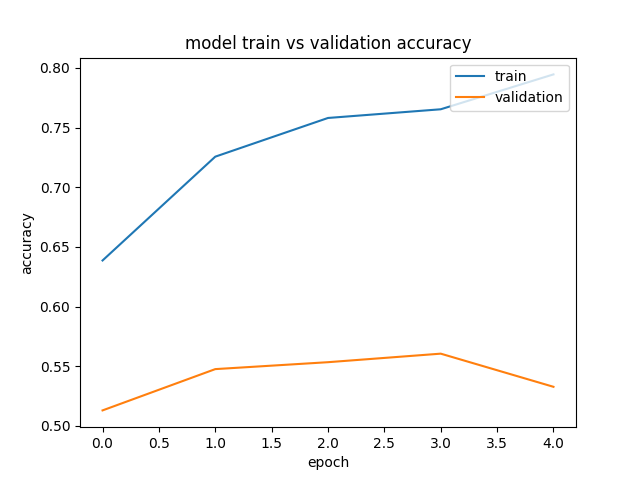
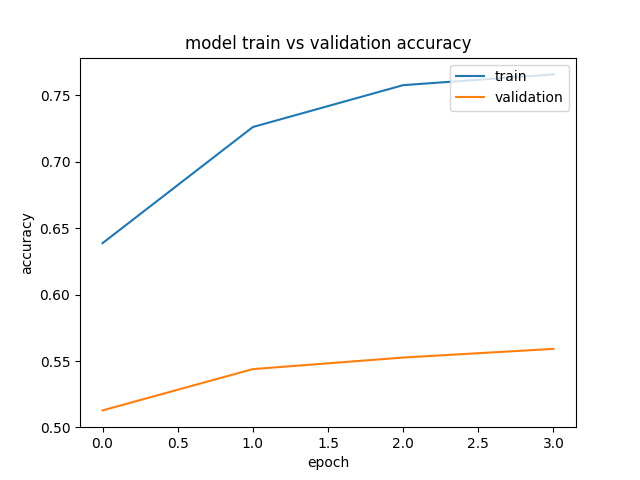
Modificaciones a GruGlove

diff --git a/simpleRNN/RNN_embb.py b/simpleRNN/RNN_embb.py
@@ -14,6 +14,12 @@ from matplotlib import pyplot
 import pickle
 from sklearn.metrics import accuracy_score, precision_score, recall_score, f1_score
 from keras import regularizers
+import os
+
+# Deshabilitar GPU
+os.environ["CUDA_DEVICE_ORDER"] = "PCI_BUS_ID"
+os.environ["CUDA_VISIBLE_DEVICES"] = ""
+
 
 # fix random seed for reproducibility
 np.random.seed(7)
@@ -29,6 +35,14 @@ print(len(X_train))
 print(y_train.shape)
 
 df = pd.read_csv('validate.csv',delimiter=',',names=['id', 'article','hyperpartisan'])
+df['article'] = df['article'].apply(literal_eval)
+
+df = df.values
+X_validate = df[:,1]
+X_validate = [map(int, article) for article in X_validate]
+y_validate= df[:,2].astype('int')
+
+df = pd.read_csv('test.csv',delimiter=',',names=['id', 'article','hyperpartisan'])
 df['article'] = df['article'].apply(literal_eval)
 
 df = df.values
@@ -55,26 +69,32 @@ for term,idTerm in termToId.iteritems():
 		embedding_matrix[idTerm] = embeddings_index[idTerm]
 
 X_train = sequence.pad_sequences(X_train, maxlen=Config.MAX_REVIEW_LEN)
+X_validate = sequence.pad_sequences(X_validate, maxlen=Config.MAX_REVIEW_LEN)
 X_test = sequence.pad_sequences(X_test, maxlen=Config.MAX_REVIEW_LEN)
 # create the model
 model = Sequential()
 model.add(Embedding(Config.TOP_WORDS, Config.EMBEDDING_VECTOR_LEN, weights=[embedding_matrix], trainable=False))
-model.add(GRU(20,dropout=0.2, recurrent_dropout=0.2, activation=None, kernel_regularizer=regularizers.l2(0.05),
-	recurrent_regularizer=regularizers.l2(0.05)))
+model.add(GRU(10,kernel_regularizer=regularizers.l2(0.05),recurrent_regularizer=regularizers.l2(0.05)))
 model.add(BatchNormalization())
 model.add(Dense(1, activation='sigmoid'))
 model.compile(loss='binary_crossentropy', optimizer='rmsprop', metrics=['accuracy'])
 print(model.summary())
-history = model.fit(X_train, y_train, epochs=10,shuffle=True, batch_size=64,validation_data=(X_test, y_test))
+history = model.fit(X_train, y_train, epochs=4,shuffle=True, batch_size=64,validation_data=(X_validate, y_validate))
+
+predictions = model.predict(X_validate).round().astype('int')
+print('\nResults in validation Data')
+print('Accuracy {}'.format(accuracy_score(y_validate,predictions)))
+print('Precision {}'.format(precision_score(y_validate,predictions)))
+print('Recall {}'.format(recall_score(y_validate,predictions)))
+print('F1 {}'.format(f1_score(y_validate,predictions)))
 
 predictions = model.predict(X_test).round().astype('int')
-print('Accuracy {}'.format(accuracy_score(y_test,predictions.round())))
-print('Precision {}'.format(precision_score(y_test,predictions.round())))
-print('Recall {}'.format(recall_score(y_test,predictions.round())))
-print('F1 {}'.format(f1_score(y_test,predictions.round())))
-# Final evaluation of the model
-#scores = model.evaluate(X_test, y_test, verbose=0)
-#print("Accuracy: %.2f%%" % (scores[1]*100))
+print('\nResults in test Data')
+print('Accuracy {}'.format(accuracy_score(y_test,predictions)))
+print('Precision {}'.format(precision_score(y_test,predictions)))
+print('Recall {}'.format(recall_score(y_test,predictions)))
+print('F1 {}'.format(f1_score(y_test,predictions)))
+
 pyplot.plot(history.history['loss'])
 pyplot.plot(history.history['val_loss'])
 pyplot.title('model train vs validation loss')

diff --git a/simpleRNN/add_result.py b/simpleRNN/add_result.py
@@ -33,6 +33,8 @@ def main(args):
       addLabel(Config.FILE_FREQ_ID,"dict.pickle",Config.FILE_TRAIN)
     elif func_name == 'validate':
       addLabel(Config.FILE_FREQ_ID_VAL,"dictVal.pickle",Config.FILE_VAL)
+    elif func_name == 'test':
+      addLabel(Config.FILE_FREQ_ID_TEST,"dictTest.pickle",Config.FILE_TEST)
     else:
       print(err_msg)
   else:
